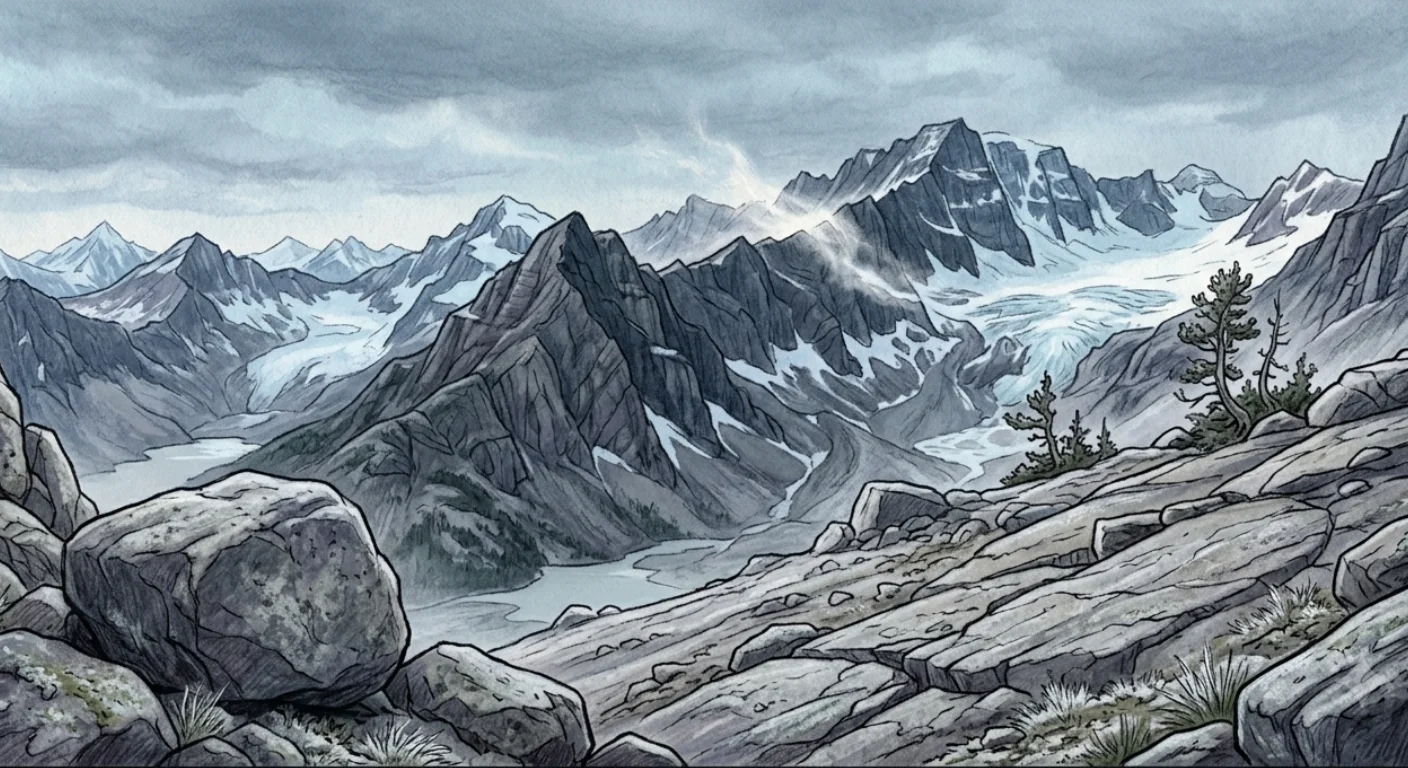
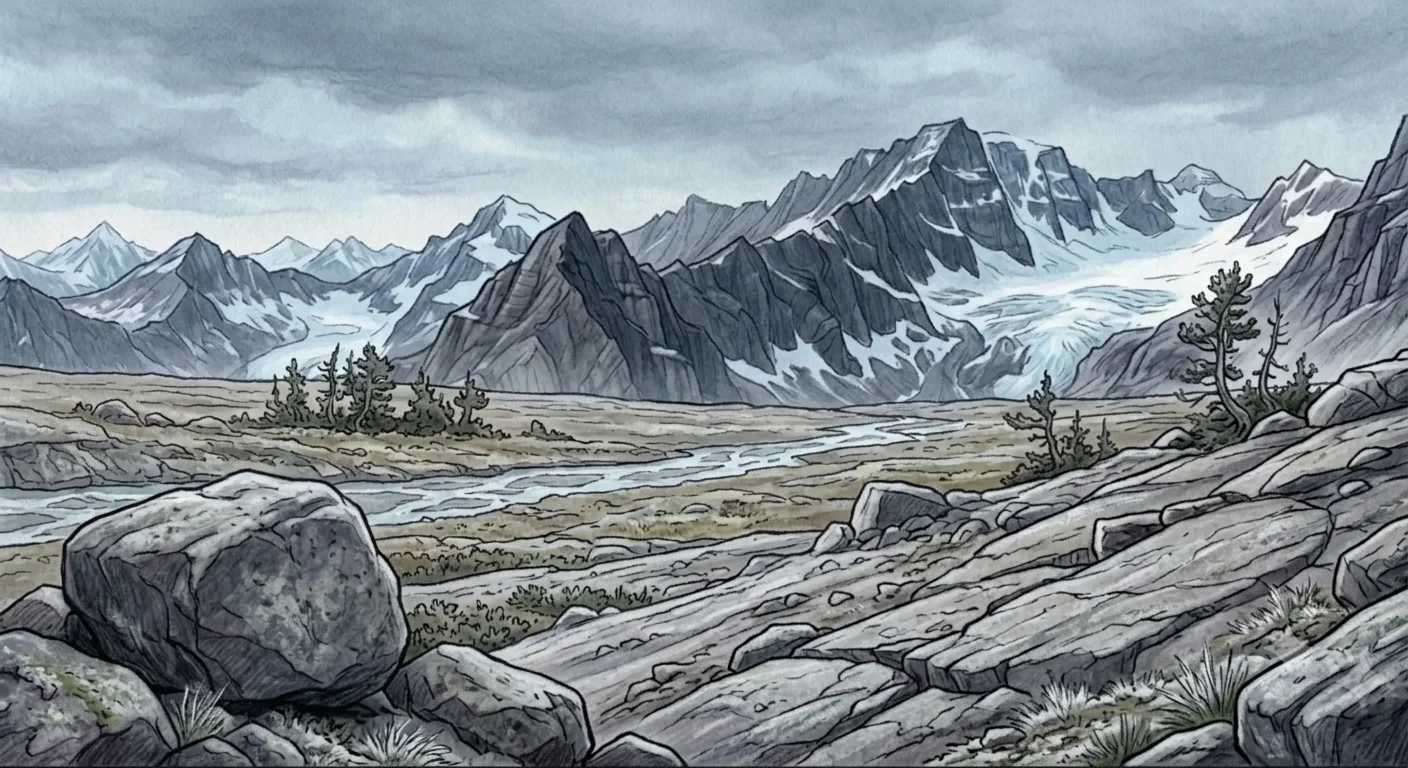
Improve background transition with crossfade
Refactor background transitions to use a crossfade effect with image preloading. This prevents white flashes when changing levels by layering the new background on top of the old one.

diff --git a/src/App.jsx b/src/App.jsx
@@ -1,4 +1,4 @@
-import React, { useState, useEffect, useRef } from 'react';
+import React, { useState, useEffect, useLayoutEffect, useRef } from 'react';
 import Enemies from './Components/Enemies.jsx';
 import Exp from './Components/Exp.jsx';
 import Progress from './Components/Progress.jsx';
@@ -83,6 +83,8 @@ export default function App() {
   const [progress, setProgress] = useState(100);
   const [enemyId, setEnemyId] = useState(Math.floor(Math.random() + 1));
   const [bgUrl, setBgUrl] = useState(() => getBackground(1));
+  const [incomingBg, setIncomingBg] = useState(null);
+  const [incomingShow, setIncomingShow] = useState(false);
   const [bgVisible, setBgVisible] = useState(true);
 
   // ── Save hook (must be called before any early returns) ──
@@ -177,16 +179,49 @@ export default function App() {
   }, [sfx]);
 
   // ── Background transition on level change ──
-  useEffect(() => {
+  // The old background stays put as a static base layer; the new one is
+  // preloaded and crossfaded in on top of it, so there's never a moment
+  // where nothing but the page's default white is showing through.
+  // useLayoutEffect (not useEffect) so bgVisible flips to false before the
+  // browser paints — otherwise the new-level enemy briefly renders at full
+  // opacity over the old background for one frame before hiding.
+  useLayoutEffect(() => {
     const next = getBackground(level);
-    if (next === bgUrl) return;
+    if (next === bgUrl || next === incomingBg) return;
+
+    let cancelled = false;
     setBgVisible(false);
-    const t = setTimeout(() => {
-      setBgUrl(next);
-      setBgVisible(true);
-    }, 400);
-    return () => clearTimeout(t);
-  }, [level, bgUrl]);
+
+    const img = new Image();
+    const startCrossfade = () => {
+      if (cancelled) return;
+      setIncomingBg(next);
+      setIncomingShow(false);
+    };
+    img.onload = startCrossfade;
+    img.onerror = startCrossfade;
+    img.src = next;
+
+    return () => { cancelled = true; };
+  }, [level, bgUrl, incomingBg]);
+
+  // Once the incoming layer is mounted at opacity 0, flip it to 1 on the next
+  // frame so the browser actually animates the transition instead of
+  // snapping straight to the target opacity.
+  useLayoutEffect(() => {
+    if (incomingBg == null || incomingShow) return;
+    const raf = requestAnimationFrame(() => setIncomingShow(true));
+    return () => cancelAnimationFrame(raf);
+  }, [incomingBg, incomingShow]);
+
+  // Once the crossfade finishes, promote the incoming image to the base
+  // layer and reveal the enemy/progress again.
+  const handleBgCrossfadeEnd = () => {
+    setBgUrl(incomingBg);
+    setIncomingBg(null);
+    setIncomingShow(false);
+    setBgVisible(true);
+  };
 
   // ── Sound effects ──
   useEffect(() => {
@@ -307,10 +342,25 @@ export default function App() {
         backgroundSize: 'auto 90%',
         backgroundRepeat: 'no-repeat',
         backgroundPosition: 'top center',
-        opacity: bgVisible ? 1 : 0,
-        transition: 'opacity 0.4s ease',
-        zIndex: -1,
+        zIndex: -2,
       }} />
+
+      {incomingBg && (
+        <div
+          onTransitionEnd={handleBgCrossfadeEnd}
+          style={{
+            position: 'fixed',
+            inset: 0,
+            backgroundImage: `url(${incomingBg})`,
+            backgroundSize: 'auto 90%',
+            backgroundRepeat: 'no-repeat',
+            backgroundPosition: 'top center',
+            opacity: incomingShow ? 1 : 0,
+            transition: 'opacity 0.6s ease',
+            zIndex: -1,
+          }}
+        />
+      )}
 
       <div className="stats">
         <Exp exp={exp} />
@@ -326,7 +376,7 @@ export default function App() {
         </div>
       </div>
 
-      <div style={{ opacity: bgVisible ? 1 : 0, transition: 'opacity 0.4s ease' }}>
+      <div style={{ opacity: bgVisible ? 1 : 0, transition: 'opacity 0.6s ease' }}>
         <Enemies key={enemyId} id={enemyId} level={level} onClick={() => handleAttack()} />
         <Progress progress={progress} level={level} />
       </div>
